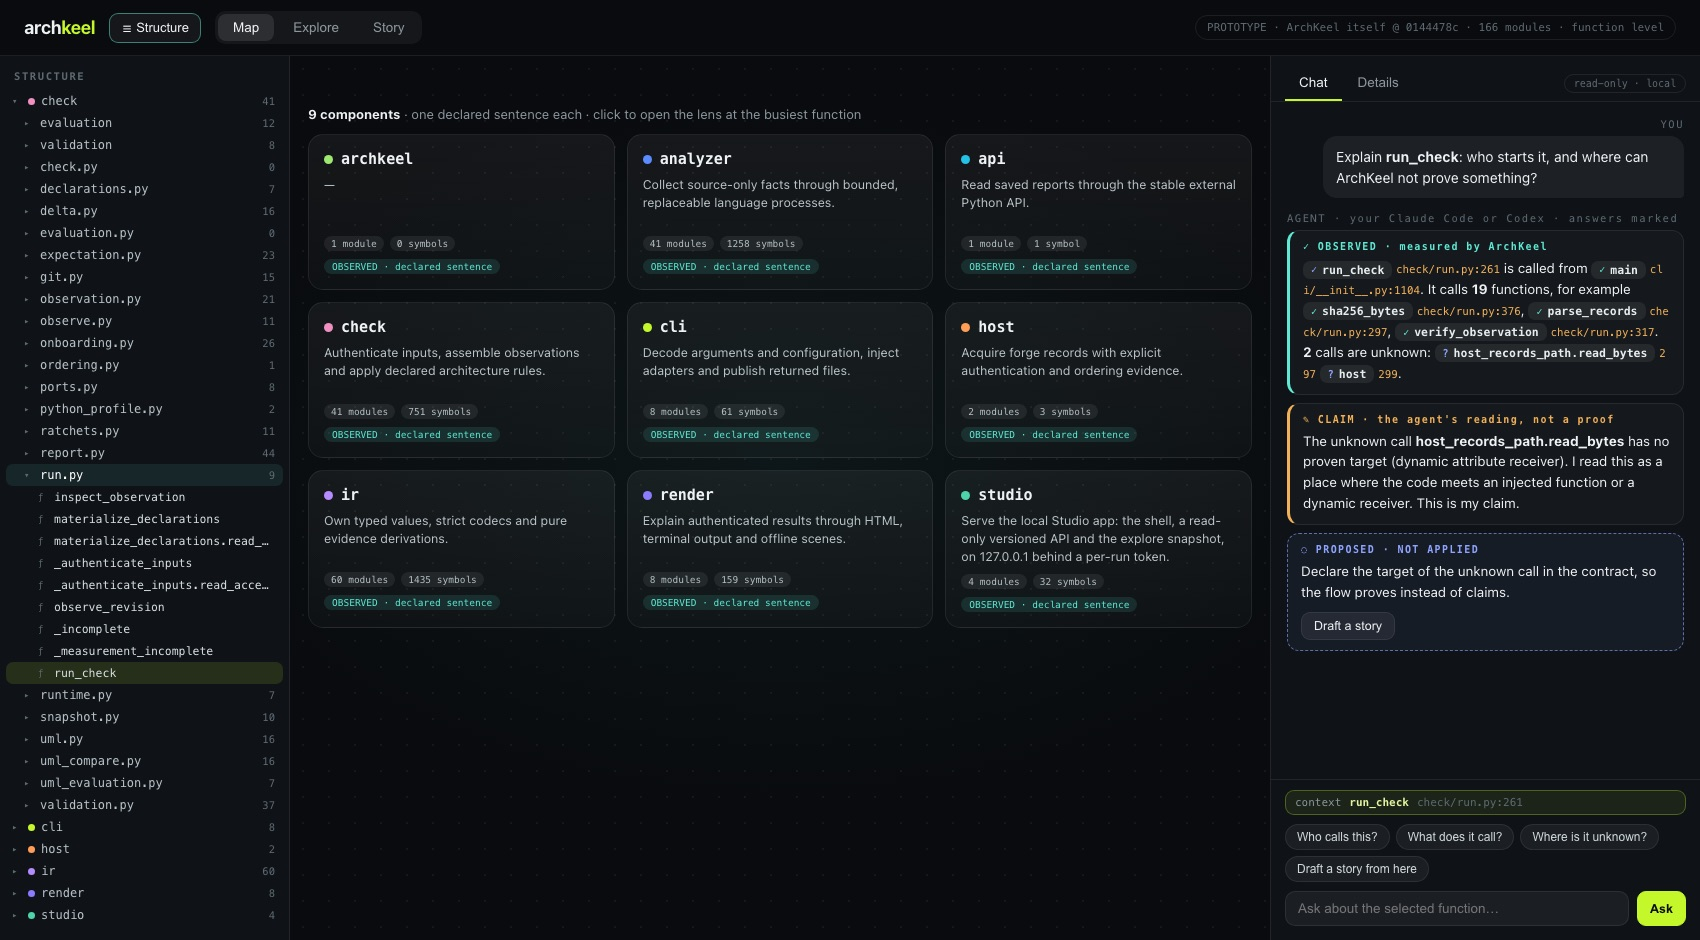
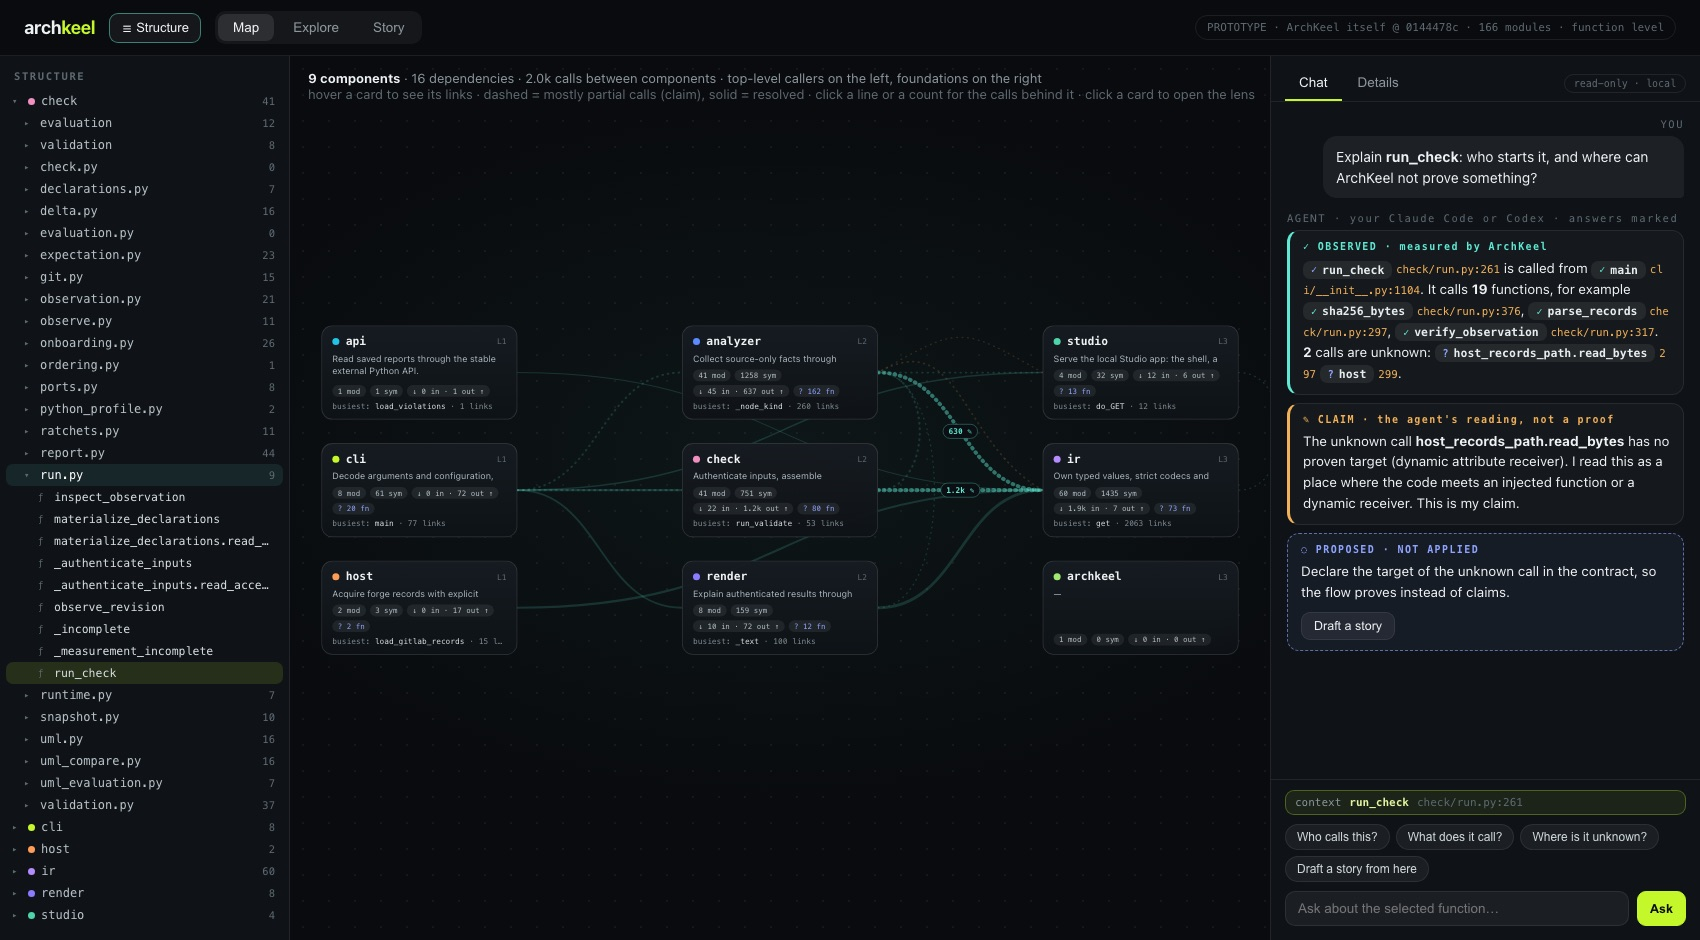
Docs: map reference image as a component dependency graph

diff --git a/docs/assets/studio-target/README.md b/docs/assets/studio-target/README.md
@@ -5,7 +5,7 @@ Reference images for the Studio storytelling part (issue #822). They are design 
 - `story-lanes-status-step5.jpg`, `step9`, `step11`: a story of `archkeel check`. Lanes for each component, one route line, a status on each step (proven, claim, unknown), a measured evidence panel and a question for the architect.
 - `explore-chat-lens.jpg`: the lens around one function. Callers on the left, callees on the right, unknown calls below. Cards of one module sit on one translucent plate with the module path. A structure tree on the left and a location bar show where you are. The chat panel separates what ArchKeel observed, what the agent claims and what is only proposed.
 - `explore-chat-draft-story.jpg`: "Draft a story from here" proposes a checked path. Nothing is applied until the owner pins it.
-- `explore-chat-map.jpg`: the map of components, one measured sentence for each.
+- `explore-chat-map.jpg`: the map as a dependency graph. Components in three role bands, a line for the calls between two components (width = count, dotted = mostly partial), a measured sentence and counts on each card.
 
 - `ee-story-cli-start-externals.jpg`, `ee-story-process-boundary.jpg`, `ee-story-lease-redis.jpg`, `ee-story-write-targets.jpg`: a story of 27 steps in 6 chapters (one `run` with several workers reading a database). They add chapters, the process-boundary line, the external-systems column (icons, vendors, a counter) and unknown calls with 58 candidates.
 - `ee-story-anti-patterns.jpg`: three ways to get it wrong: show everything, show every step at once, show no proof marks.
